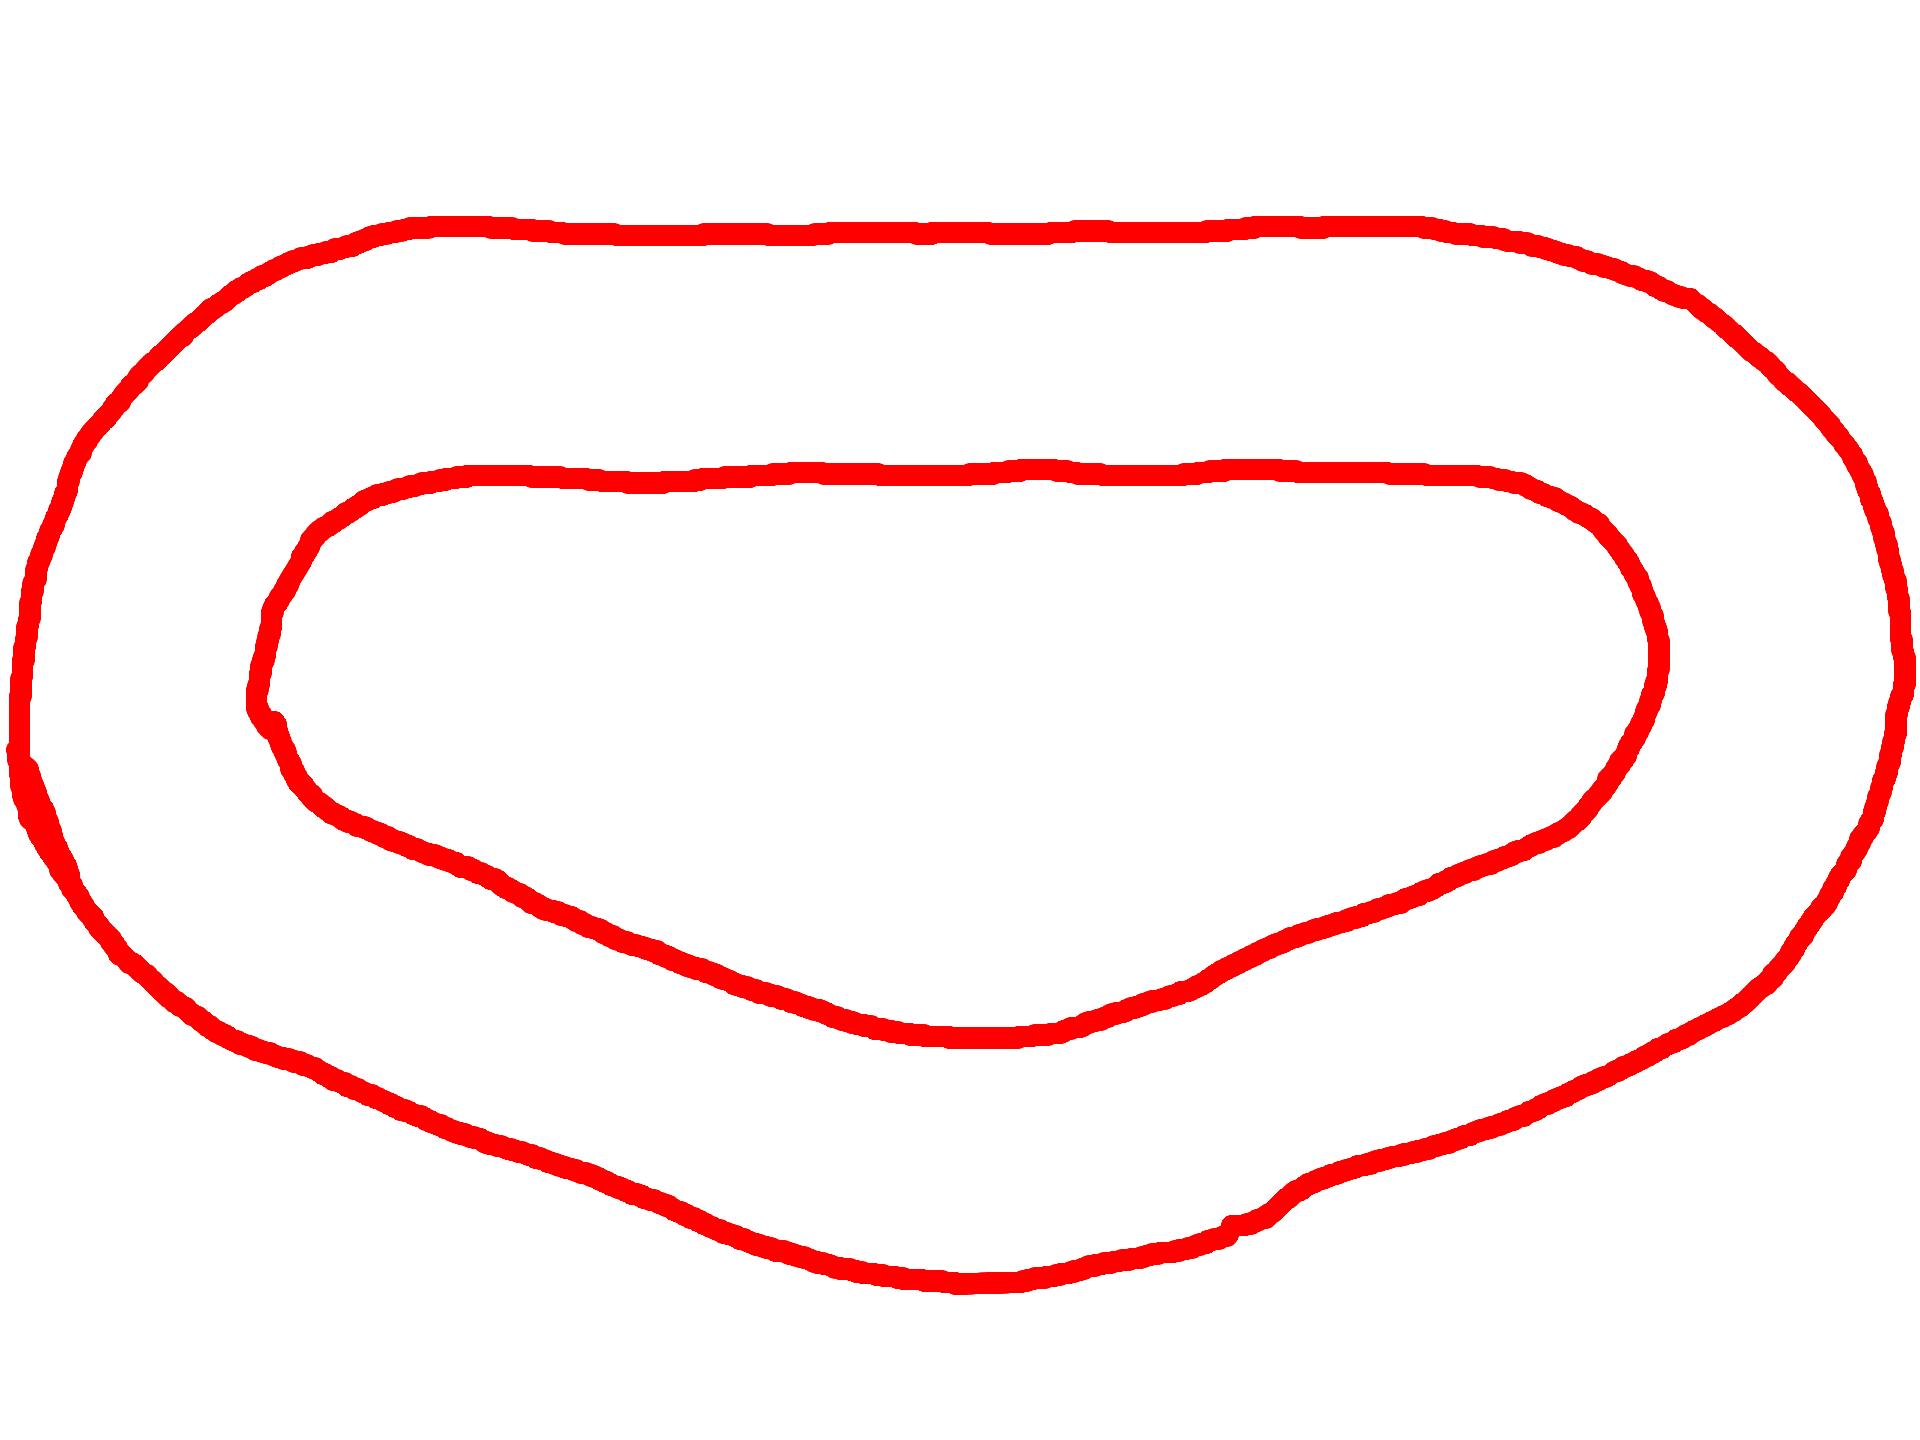
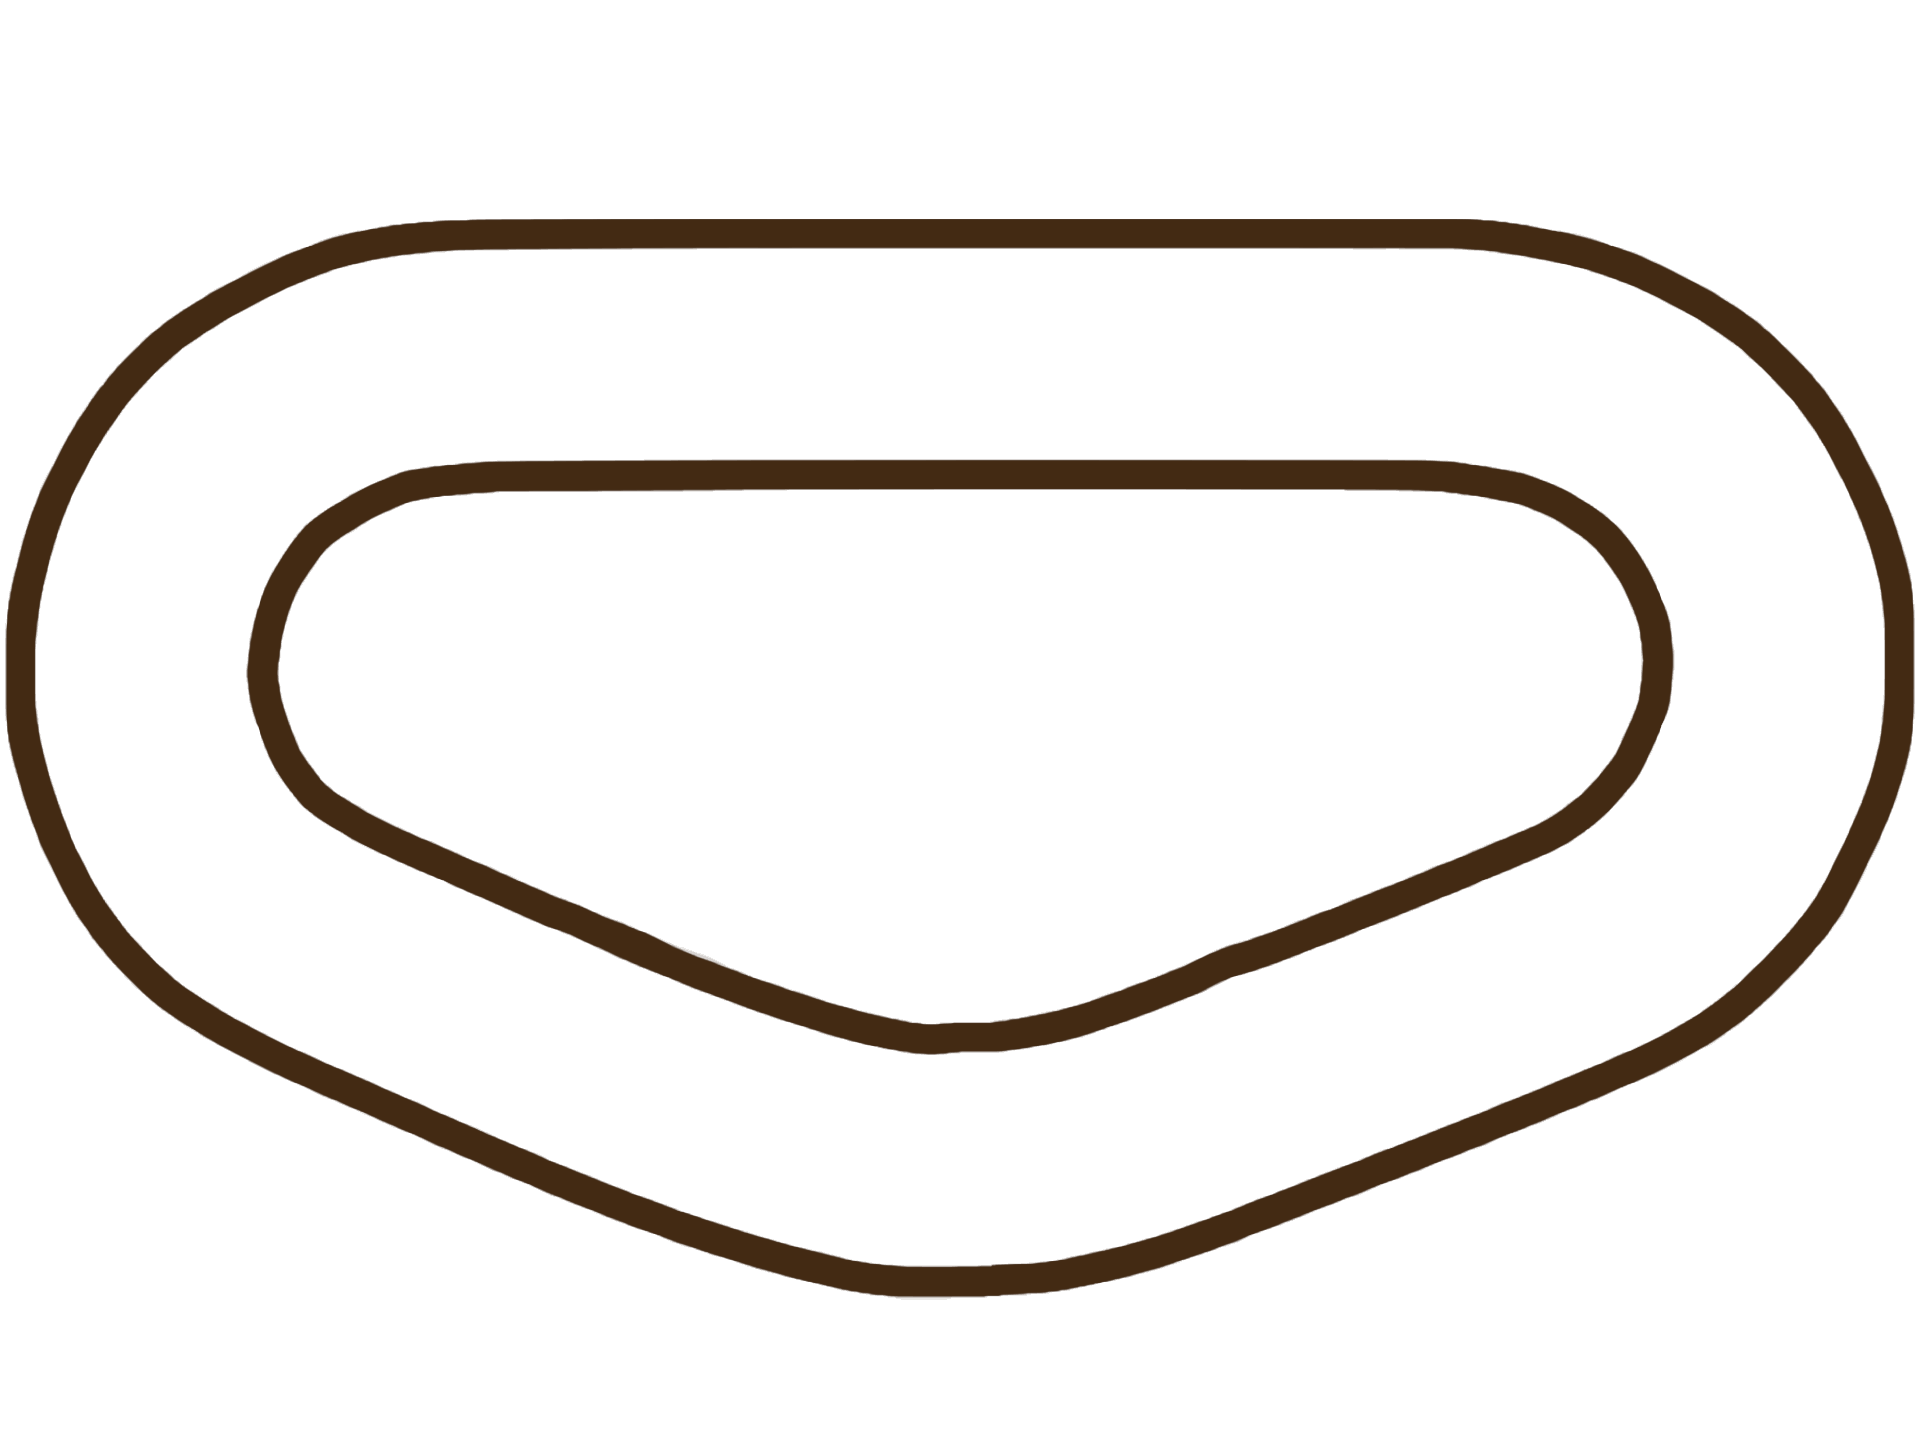
added neural network

Changed region(s): [[0.0, 0.125, 1.0, 0.9062], [0.125, 0.3125, 0.875, 0.75]]

diff --git a/Main.py b/Main.py
@@ -1,6 +1,8 @@
 import pygame
 import time
+import numpy
 import math
+import random
 
 from Utils import resize, rotate_center
 
@@ -10,9 +12,9 @@ TRACK_BORDER_MASK = pygame.mask.from_surface(TRACK_BORDER)
 
 CAR = resize(pygame.image.load("img/autkoMINI.png"), 0.65, 0.65)
 
-FINISH = resize(pygame.image.load("img/meta.png"), 0.55, 0.56)
+FINISH = resize(pygame.image.load("img/meta.png"), 0.45, 0.49)
 FINISH_MASK = pygame.mask.from_surface(FINISH)
-FINISH_POS = (490, 572)
+FINISH_POS = (490, 580)
 
 WIDTH, HEIGHT = TRACK.get_width(), TRACK.get_height()
 WINDOW = pygame.display.set_mode((WIDTH, HEIGHT))
@@ -25,8 +27,10 @@ class Car(pygame.sprite.Sprite):
     START_POS = (410, 605)
 
     def __init__(self):
-
         super().__init__()
+        self.radars = None
+        self.new_rect = None
+        self.rotated_image = None
         self.img = CAR
         self.max_vel = 12
         self.vel = 0
@@ -35,24 +39,32 @@ class Car(pygame.sprite.Sprite):
         self.x, self.y = self.START_POS
         self.acceleration = 0.3
         self.points = -1
-        self.rect = self.img.get_rect(topleft=(self.x,self.y))
+        self.rect = self.img.get_rect(topleft=(self.x, self.y))
+        self.multiplier = 1
+        self.base_number = 7
+        self.hidden_number = 6
+        self.out_number = 4
 
-    def rotate(self, left=False, right=False):
+        self.brain()
+        self.random_weights()
+        self.car_alive = True
+
+    def rotate(self,left=False,right=False):
         if left:
-            self.angle += self.rotation_vel
+            self.angle += (self.rotation_vel*self.out_sums[2])*self.multiplier
         elif right:
-            self.angle -= self.rotation_vel
+            self.angle -= (self.rotation_vel*self.out_sums[3])*self.multiplier
 
     def draw(self, window):
         self.new_rect, self.rotated_image = rotate_center(window, self.img, (self.x, self.y), self.angle)
         self.more_radars()
-
+        self.feedforward()
     def move_forward(self):
-        self.vel = min(self.vel + self.acceleration, self.max_vel)
+        self.vel = min(self.vel + self.acceleration*self.out_sums[0], self.max_vel)*self.multiplier
         self.move()
 
     def move_backwards(self):
-        self.vel = max(self.vel - self.acceleration, -1 * self.max_vel / 2)
+        self.vel = max(self.vel - self.acceleration*self.out_sums[1], -1 * self.max_vel / 2)*self.multiplier
         self.move()
 
     def move(self):
@@ -80,79 +92,120 @@ class Car(pygame.sprite.Sprite):
         self.points += amount
 
     def movement(self):
-        keys = pygame.key.get_pressed()
         moved = False
-        if keys[pygame.K_a]:
+        if self.out_sums[2]==1:
             self.rotate(left=True)
-        if keys[pygame.K_d]:
+        if self.out_sums[3]==1:
             self.rotate(right=True)
-        if keys[pygame.K_w] and not keys[pygame.K_s]:
+        if self.out_sums[0]==1:
             moved = True
             self.move_forward()
-        if keys[pygame.K_s]:
+        elif self.out_sums[1]==1:
             moved = True
             self.move_backwards()
-        if not moved:
+        else:
             self.reduce_speed()
-
+    def stop(self):
+        self.multiplier = 0
+        self.car_alive = False
     def radar(self, radar_angle):
         length = 0
         x = int(self.new_rect.center[0])
         y = int(self.new_rect.center[1])
 
         try:
-            while not WINDOW.get_at((x, y)) == pygame.Color(255, 0, 0, 255) and length < 150:
+            while not WINDOW.get_at((x, y)) == pygame.Color(67, 42, 19, 255) and length < 150:
                 length += 1
                 x = int(self.new_rect.center[0] + math.cos(math.radians(self.angle + radar_angle)) * length)
                 y = int(self.new_rect.center[1] - math.sin(math.radians(self.angle + radar_angle)) * length)
         except:
             print("")
-        # Draw Radar
         pygame.draw.line(WINDOW, (255, 255, 255, 255), self.new_rect.center, (x, y), 1)
-        pygame.draw.circle(WINDOW, (0, 255, 0, 0), (x, y), 3)
-
-        return self.angle + radar_angle, length
+        # if wrong, change to unimodal sigmoidal function
+        return -1 * (length - 150) / 100
 
     def more_radars(self):
-        self.radars = [self.radar(-90), self.radar(-60), self.radar(-30), self.radar(0), self.radar(30), self.radar(60), self.radar(90)]
+        self.radars = [self.radar(-90), self.radar(-60), self.radar(-30), self.radar(0), self.radar(30), self.radar(60),
+                       self.radar(90)]
+    def brain(self):
+        self.base_weights = numpy.zeros((self.base_number,self.base_number+1))
+        self.hidden_weights = numpy.zeros((self.hidden_number,self.base_number+1))
+        self.out_weights = numpy.zeros((self.out_number, self.hidden_number+1))
+        self.base_sums = numpy.zeros(7)
+        self.hidden_sums = numpy.zeros(6)
+        self.out_sums= numpy.zeros(4)
+
+    def random_weights(self):
+        for i in range(self.base_number):
+            for j in range(self.base_number+1):
+                self.base_weights[i][j] = (2*random.random() -1)
+        for i in range(self.hidden_number):
+            for j in range(self.base_number+1):
+                self.hidden_weights[i][j] = (2*random.random() -1)
+        for i in range(self.out_number):
+            for j in range(self.hidden_number+1):
+                self.out_weights[i][j] = (2*random.random() -1)
+    def feedforward(self):
+        for i in range(self.base_number):
+            self.base_sums[i] += self.base_weights[i][0]
+            for j in range(self.base_number):
+                self.base_sums[i] += self.radars[j]*self.base_weights[i][j+1]
+            self.base_sums[i] = 1/(1+math.exp(-self.base_sums[i]))
+
+        for i in range(self.hidden_number):
+            self.hidden_sums[i] += self.hidden_weights[i][0]
+            for j in range(self.hidden_number):
+                self.hidden_sums[i] += self.base_sums[j]*self.hidden_weights[i][j+1]
+            self.hidden_sums[i] = 1/(1+math.exp(-self.hidden_sums[i]))
+
+        for i in range(self.out_number):
+            self.out_sums[i] += self.out_weights[i][0]
+            for j in range(self.out_number):
+                self.out_sums[i] += self.hidden_sums[j]*self.out_weights[i][j+1]
+            # self.out_sums[i] = 1/(1+math.exp(-self.out_sums[i]))
+            if self.out_sums[i]>0:
+                self.out_sums[i] = 1
+            else:
+                self.out_sums[i] = 0
 
 
-def draw(window, car):
-
+def draw(window):
     window.blit(TRACK, (0, 0))
     window.blit(TRACK_BORDER, (0, 0))
     window.blit(FINISH, FINISH_POS)
-    car.draw(window)
-    pygame.display.update()
 
 
 run = True
 clock = pygame.time.Clock()
-carr = Car()
+cars = []
+for i in range(10):
+    car = Car()
+    cars.append(car)
 i = True
 while run:
     clock.tick(FPS)
-    draw(WINDOW, carr)
-    pygame.display.update()
+    draw(WINDOW)
     for event in pygame.event.get():
         if event.type == pygame.QUIT:
             run = False
             break
-    carr.movement()
+    for car in cars:
+        car.movement()
+        car.draw(WINDOW)
+        if car.collision(TRACK_BORDER_MASK) is not None:
+            car.stop()
+    pygame.display.update()
 
-    if carr.collision(TRACK_BORDER_MASK) is not None:
-        print("kolizja")
-
-    poi = carr.collision(FINISH_MASK, *FINISH_POS)
-    if poi is not None:
-        if i is True and poi[0] < 5:
-            carr.add_point(1)
-            print(carr.points)
-            i = False
-        elif i is True and poi[0] > 60:
-            carr.add_point(-1)
-            print(carr.points)
-            i = False
-    if poi is None:
-        i = True
+    # poi = carr.collision(FINISH_MASK, *FINISH_POS)
+    # if poi is not None:
+    #     if i is True and poi[0] < 5:
+    #         carr.add_point(1)
+    #         print(carr.points)
+    #         i = False
+    #     elif i is True and poi[0] > 60:
+    #         carr.add_point(-1)
+    #         print(carr.points)
+    #         i = False
+    # if poi is None:
+    #     i = True
 pygame.quit()
